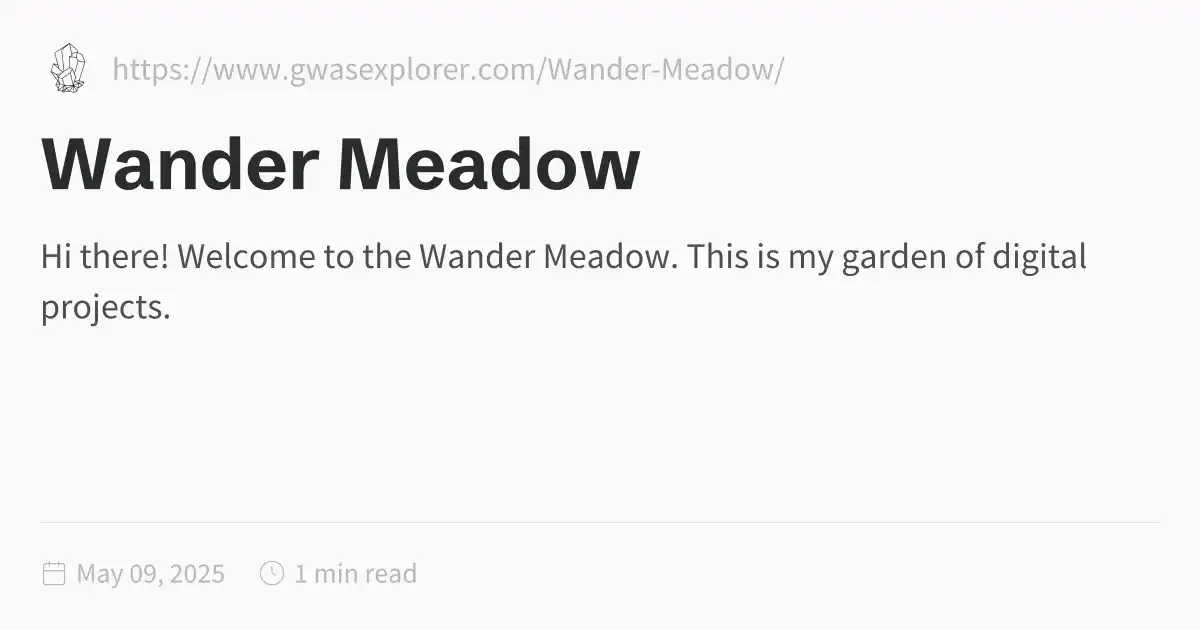
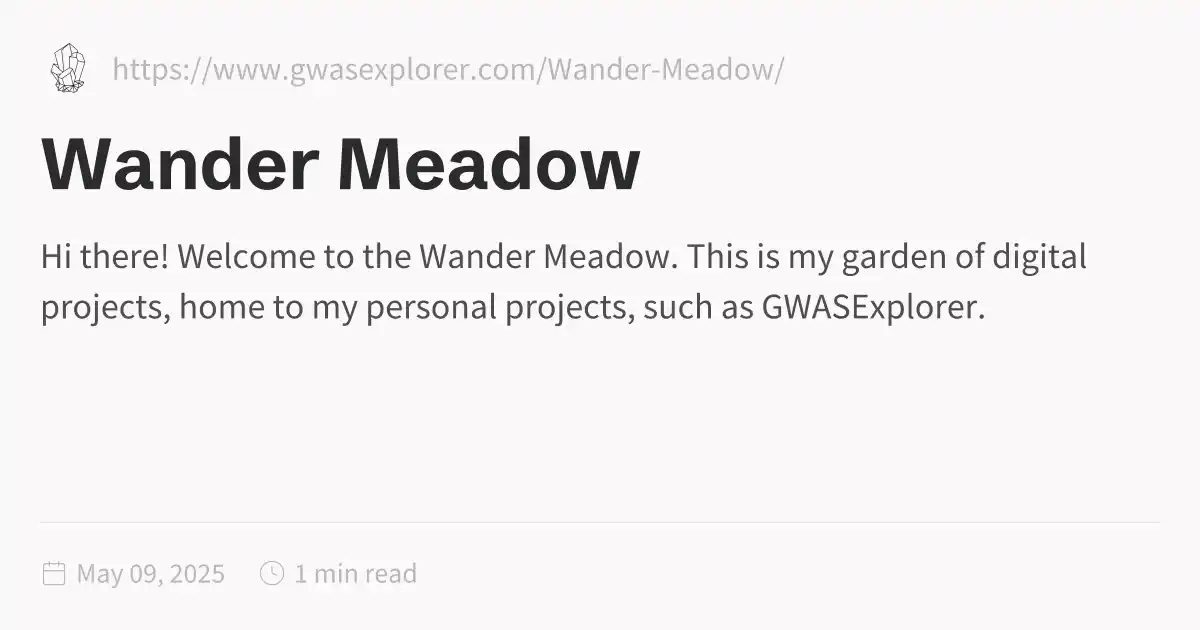
Update public folder - 2025-05-09\_1736

Changed region(s): [[0.1233, 0.4524, 0.8325, 0.5127]]

diff --git a/Wander-Meadow.html b/Wander-Meadow.html
@@ -1,5 +1,5 @@
 <!DOCTYPE html>
-<html lang="en"><head><title>Wander Meadow</title><meta charset="utf-8"/><link rel="preconnect" href="https://fonts.googleapis.com"/><link rel="preconnect" href="https://fonts.gstatic.com"/><link rel="stylesheet" href="https://fonts.googleapis.com/css2?family=Schibsted Grotesk:wght@400;700&amp;family=Source Sans Pro:ital,wght@0,400;0,600;1,400;1,600&amp;family=IBM Plex Mono:wght@400;600&amp;display=swap"/><link rel="preconnect" href="https://cdnjs.cloudflare.com" crossorigin="anonymous"/><meta name="viewport" content="width=device-width, initial-scale=1.0"/><meta name="og:site_name" content="Wander Meadow"/><meta property="og:title" content="Wander Meadow"/><meta property="og:type" content="website"/><meta name="twitter:card" content="summary_large_image"/><meta name="twitter:title" content="Wander Meadow"/><meta name="twitter:description" content="Hi there! Welcome to the Wander Meadow. This is my garden of digital projects."/><meta property="og:description" content="Hi there! Welcome to the Wander Meadow. This is my garden of digital projects."/><meta property="og:image:alt" content="Hi there! Welcome to the Wander Meadow. This is my garden of digital projects."/><meta property="twitter:domain" content="https://www.gwasexplorer.com/Wander-Meadow/"/><meta property="og:url" content="https://https//www.gwasexplorer.com/Wander-Meadow/Wander-Meadow"/><meta property="twitter:url" content="https://https//www.gwasexplorer.com/Wander-Meadow/Wander-Meadow"/><link rel="icon" href="./static/icon.png"/><meta name="description" content="Hi there! Welcome to the Wander Meadow. This is my garden of digital projects."/><meta name="generator" content="Quartz"/><link href="./index.css" rel="stylesheet" type="text/css" spa-preserve/><style>.expand-button {
+<html lang="en"><head><title>Wander Meadow</title><meta charset="utf-8"/><link rel="preconnect" href="https://fonts.googleapis.com"/><link rel="preconnect" href="https://fonts.gstatic.com"/><link rel="stylesheet" href="https://fonts.googleapis.com/css2?family=Schibsted Grotesk:wght@400;700&amp;family=Source Sans Pro:ital,wght@0,400;0,600;1,400;1,600&amp;family=IBM Plex Mono:wght@400;600&amp;display=swap"/><link rel="preconnect" href="https://cdnjs.cloudflare.com" crossorigin="anonymous"/><meta name="viewport" content="width=device-width, initial-scale=1.0"/><meta name="og:site_name" content="Wander Meadow"/><meta property="og:title" content="Wander Meadow"/><meta property="og:type" content="website"/><meta name="twitter:card" content="summary_large_image"/><meta name="twitter:title" content="Wander Meadow"/><meta name="twitter:description" content="Hi there! Welcome to the Wander Meadow. This is my garden of digital projects, home to my personal projects, such as GWASExplorer."/><meta property="og:description" content="Hi there! Welcome to the Wander Meadow. This is my garden of digital projects, home to my personal projects, such as GWASExplorer."/><meta property="og:image:alt" content="Hi there! Welcome to the Wander Meadow. This is my garden of digital projects, home to my personal projects, such as GWASExplorer."/><meta property="twitter:domain" content="https://www.gwasexplorer.com/Wander-Meadow/"/><meta property="og:url" content="https://https//www.gwasexplorer.com/Wander-Meadow/Wander-Meadow"/><meta property="twitter:url" content="https://https//www.gwasexplorer.com/Wander-Meadow/Wander-Meadow"/><link rel="icon" href="./static/icon.png"/><meta name="description" content="Hi there! Welcome to the Wander Meadow. This is my garden of digital projects, home to my personal projects, such as GWASExplorer."/><meta name="generator" content="Quartz"/><link href="./index.css" rel="stylesheet" type="text/css" spa-preserve/><style>.expand-button {
   position: absolute;
   display: flex;
   float: right;
@@ -116,9 +116,9 @@ pre:hover > .expand-button {
   padding: 0 12px;
   font-size: 14px;
 }
[2 lines of base64/hex data omitted]
 <h5 id="welcome-to-the-wander-meadow">Welcome to the <em>Wander Meadow</em>.<a role="anchor" aria-hidden="true" tabindex="-1" data-no-popover="true" href="#welcome-to-the-wander-meadow" class="internal"><svg width="18" height="18" viewBox="0 0 24 24" fill="none" stroke="currentColor" stroke-width="2" stroke-linecap="round" stroke-linejoin="round"><path d="M10 13a5 5 0 0 0 7.54.54l3-3a5 5 0 0 0-7.07-7.07l-1.72 1.71"></path><path d="M14 11a5 5 0 0 0-7.54-.54l-3 3a5 5 0 0 0 7.07 7.07l1.71-1.71"></path></svg></a></h5>
-<p>This is my garden of digital projects. See if you like something, reach out to me if you’d like me to build something!</p>
+<p>This is my garden of digital projects, home to my personal projects, such as GWASExplorer. See if you like something, reach out to me if you’d like me to build something!</p>
 <div class="container"> 
 	 <p class="hidden-message">Loading Page. Reload if not completed within a few seconds. </p> 
 	<div onclick="redirect('Projects/Ideate2D')" class="card"> 
